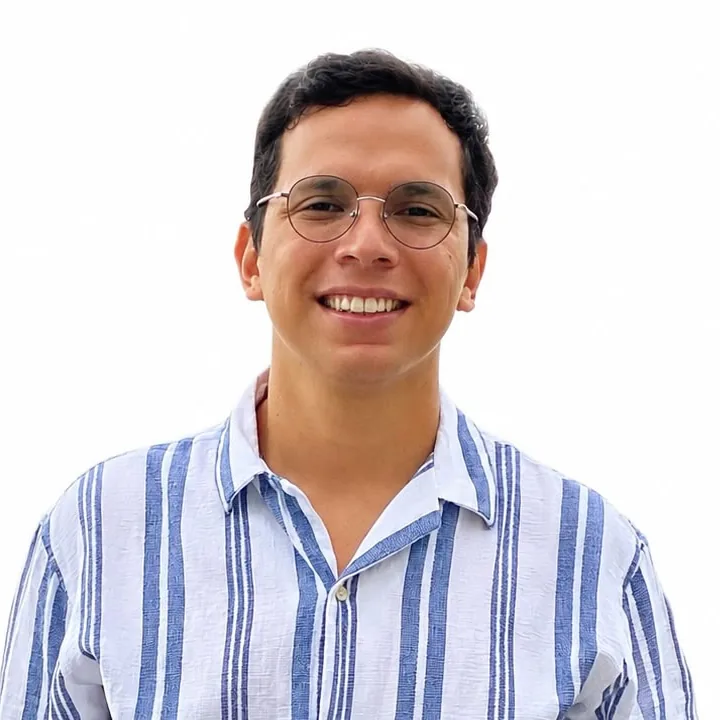
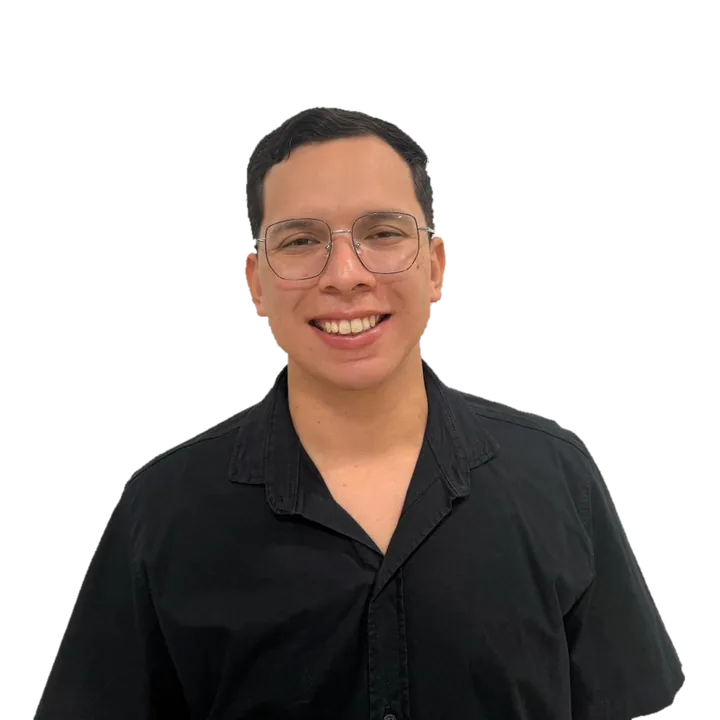
refactor: update portrait image dimensions and adjust styles for consistency

diff --git a/src/styles/tokens.css b/src/styles/tokens.css
@@ -13,8 +13,6 @@
 
   --color-muted-ink: #4a4a4a;
 
-  --color-portrait-frame: var(--color-border);
-
   --font-sans: 'Archivo', 'Helvetica Neue', Helvetica, Arial, system-ui, sans-serif;
   --font-mono: 'IBM Plex Mono', ui-monospace, SFMono-Regular, Menlo, monospace;
 
@@ -69,8 +67,6 @@
   --pattern-dots: 16px;
   --pattern-opacity: 0.045;
 
-  --accent-glow: rgb(15 122 74 / 0.16);
-
   color-scheme: light;
 }
 
@@ -89,9 +85,7 @@
     --color-on-accent: #000000;
 
     --color-muted-ink: #b4b4b4;
-    --color-portrait-frame: var(--color-accent);
     --pattern-opacity: 0.07;
-    --accent-glow: rgb(63 185 80 / 0.2);
 
     color-scheme: dark;
   }
@@ -111,9 +105,7 @@
   --color-on-accent: #000000;
 
   --color-muted-ink: #b4b4b4;
-  --color-portrait-frame: var(--color-accent);
   --pattern-opacity: 0.07;
-  --accent-glow: rgb(63 185 80 / 0.2);
 
   color-scheme: dark;
 }
